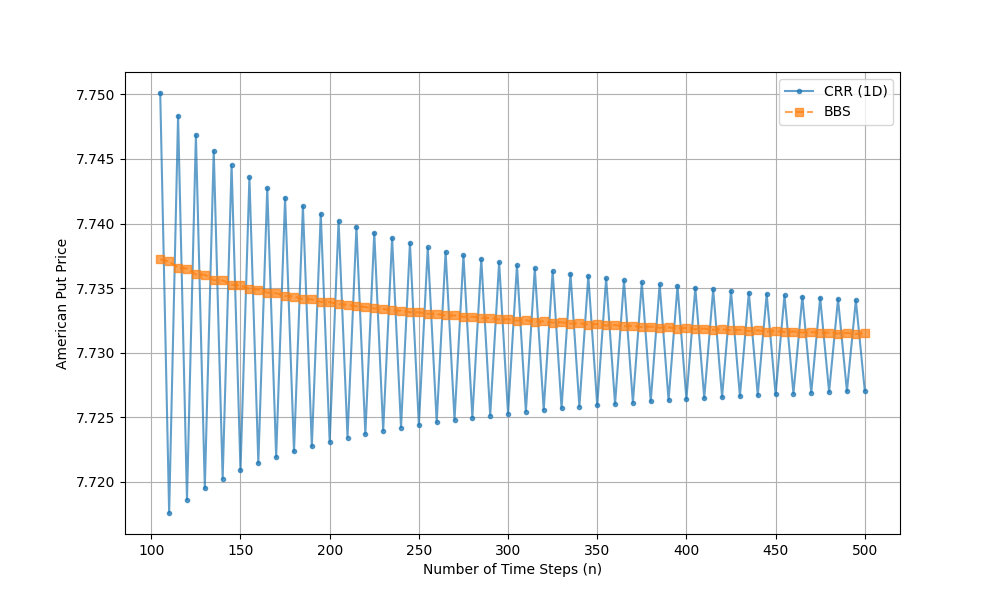
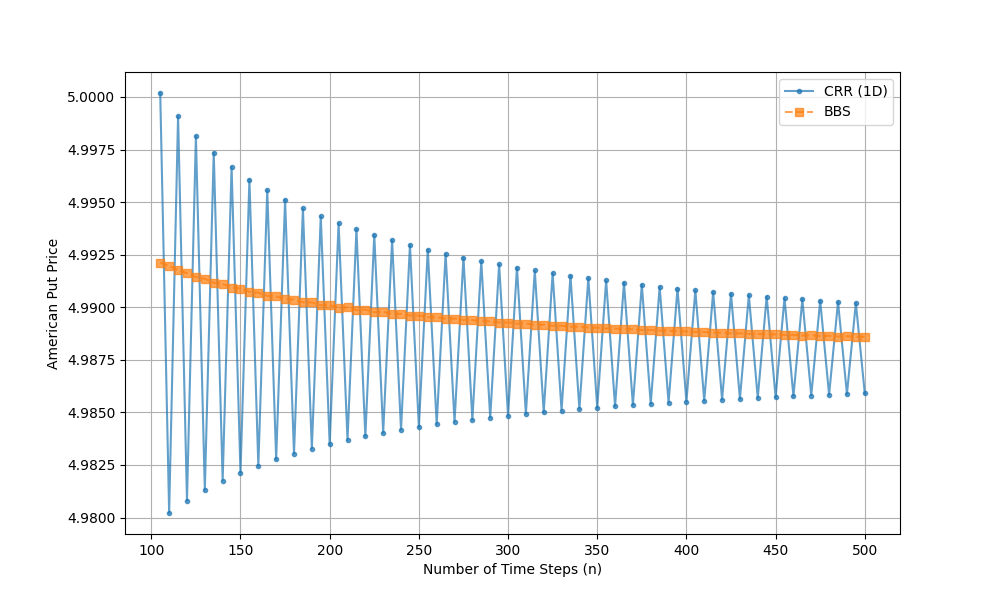
feat: split n and comb_n

diff --git a/hw2/main.py b/hw2/main.py
@@ -11,13 +11,14 @@ from combinatorial import combinatorial_method
 
 def run_assignment():
     # --- Input Parameters ---
-    S0 = 100.0
-    K = 100.0
-    r = 0.05
-    q = 0.02
-    sigma = 0.3
+    S0 = 50.0
+    K = 50.0
+    r = 0.1
+    q = 0.05
+    sigma = 0.4
     T = 0.5
-    n = 105
+    n = 100
+    comb_n = 10000
     num_simulations = 10000
     num_repetitions = 20
 
@@ -34,7 +35,7 @@ def run_assignment():
     crr_2d_call = crr_binomial_tree_2d(S0, K, r, q, sigma, T, n, 'call', 'european')
     crr_1d_call = crr_binomial_tree_1d(S0, K, r, q, sigma, T, n, 'call', 'european')
     bbs_call_val = bbs_tree(S0, K, r, q, sigma, T, n, 'call', 'european')
-    comb_call = combinatorial_method(S0, K, r, q, sigma, T, n, 'call')
+    comb_call = combinatorial_method(S0, K, r, q, sigma, T, comb_n, 'call')
 
     print(f"{'Black-Scholes:':<25} {bs_call:.6f}")
     print(f"{'Monte Carlo:':<25} {mc_call_val:.6f} (95% CI: [{mc_call_ci[0]:.6f}, {mc_call_ci[1]:.6f}])")
@@ -59,7 +60,7 @@ def run_assignment():
     crr_2d_put = crr_binomial_tree_2d(S0, K, r, q, sigma, T, n, 'put', 'european')
     crr_1d_put = crr_binomial_tree_1d(S0, K, r, q, sigma, T, n, 'put', 'european')
     bbs_put_val = bbs_tree(S0, K, r, q, sigma, T, n, 'put', 'european')
-    comb_put = combinatorial_method(S0, K, r, q, sigma, T, n, 'put')
+    comb_put = combinatorial_method(S0, K, r, q, sigma, T, comb_n, 'put')
 
     print(f"{'Black-Scholes:':<25} {bs_put:.6f}")
     print(f"{'Monte Carlo:':<25} {mc_put_val:.6f} (95% CI: [{mc_put_ci[0]:.6f}, {mc_put_ci[1]:.6f}])")
